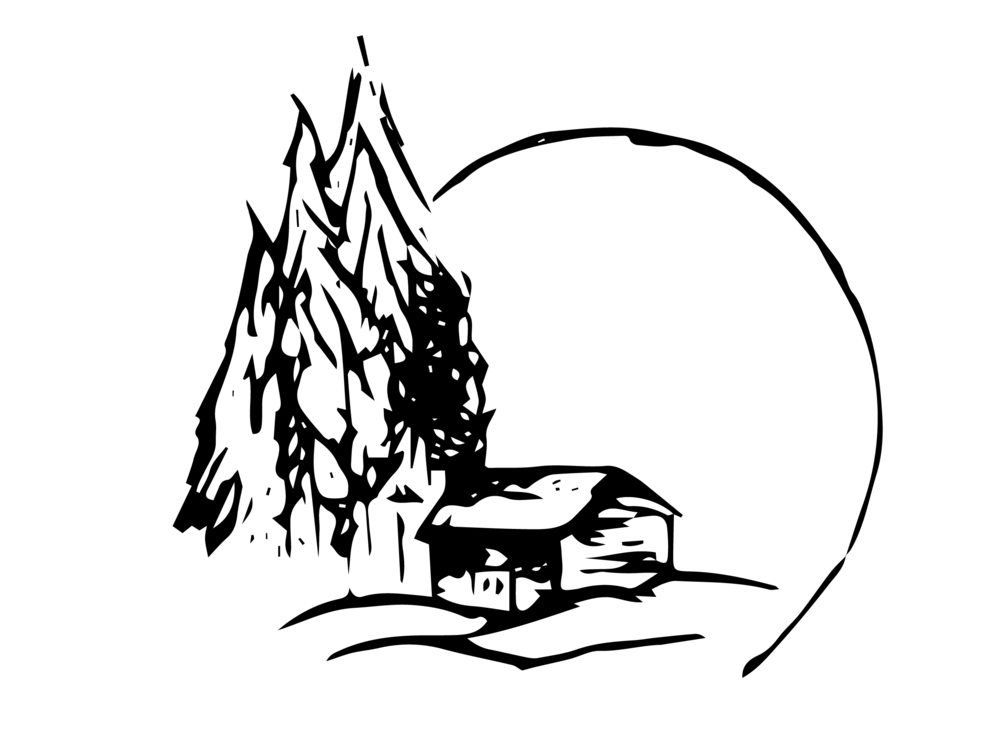
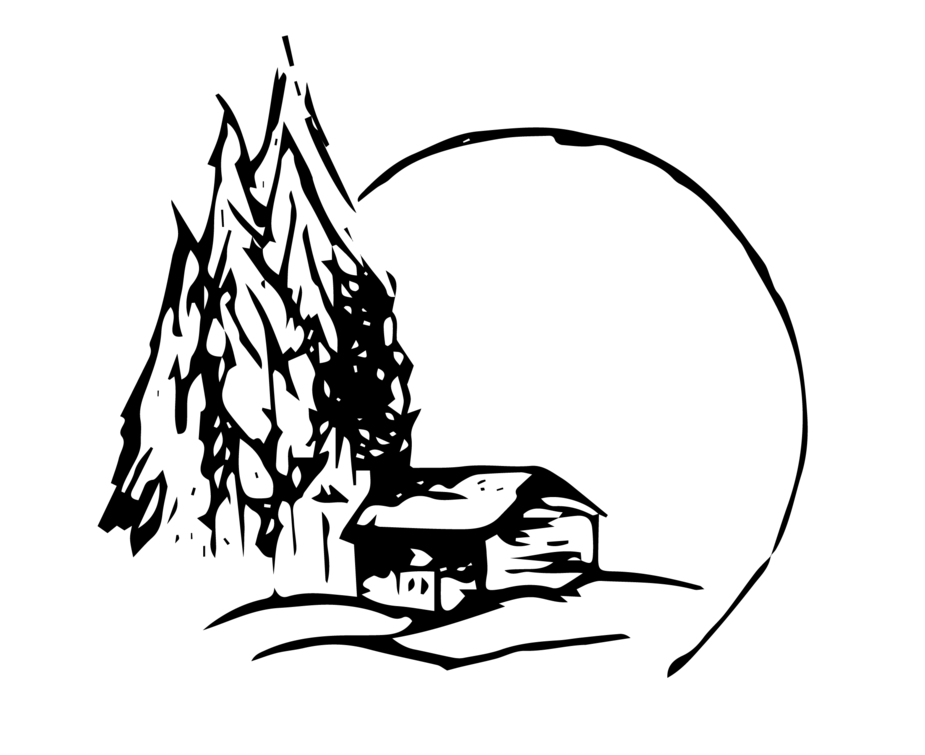
trying to fix mobile moon cabin image

Changed region(s): [[0.0908, 0.0305, 0.9081, 0.9139], [0.2119, 0.8225, 0.2422, 0.853]]

diff --git a/src/pages/show/ShowAudio.js b/src/pages/show/ShowAudio.js
@@ -37,7 +37,9 @@ const ShowAudio = ({ archiveUrl, nugsNetId, bandcampAlbumId }) => {
           <FollowButton>Follow Show</FollowButton>
         </UnavailableTextContainer>
         <MoonCabinImageContainer>
-          <MoonCabinImage src={require("../../assets/moon_cabin.png")} />
+          <div style={{ maxWidth: 250, maxHeight: 250, padding: 12 }}>
+            <MoonCabinImage src={require("../../assets/moon_cabin.png")} />
+          </div>
         </MoonCabinImageContainer>
       </UnavailableContainer>
     )
